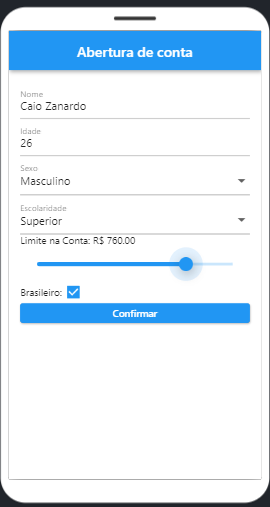
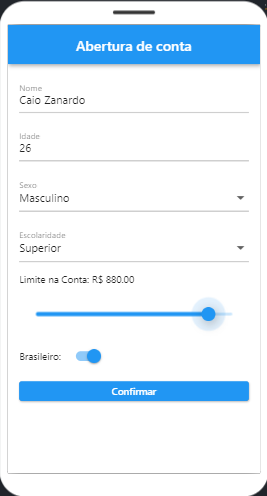
Ajustando Swith

Changed region(s): [[0.0, 0.0, 1.0, 1.0]]

diff --git a/main.dart b/main.dart
@@ -8,7 +8,7 @@ class MyApp extends StatelessWidget {
   @override
   Widget build(BuildContext context) {
     return MaterialApp(
-      debugShowCheckedModeBanner: false, // Desabilita o banner de depuração
+      debugShowCheckedModeBanner: false,
       title: 'Formulário de Dados',
       theme: ThemeData(
         primarySwatch: Colors.blue,
@@ -46,7 +46,7 @@ class _FormularioDadosState extends State<FormularioDados> {
               Text('Sexo: $sexoSelecionado'),
               Text('Escolaridade: $escolaridadeSelecionada'),
               Text('Limite na Conta: R\$ ${limiteConta.toStringAsFixed(2)}'),
-              Text('Brasileiro: ${brasileiro ? 'Sim' : 'Não'}'),
+              Text('Nacionalidade: ${brasileiro ? 'Brasileiro' : 'Estrangeiro'}'),
             ],
           ),
           actions: [
@@ -69,7 +69,7 @@ class _FormularioDadosState extends State<FormularioDados> {
         title: Text('Abertura de conta'),
         centerTitle: true,
       ),
-      backgroundColor: Colors.white, // Define a cor de fundo do Scaffold
+      backgroundColor: Colors.white,
       body: Padding(
         padding: const EdgeInsets.all(16.0),
         child: SingleChildScrollView(
@@ -80,11 +80,13 @@ class _FormularioDadosState extends State<FormularioDados> {
                 controller: nomeController,
                 decoration: InputDecoration(labelText: 'Nome'),
               ),
+              SizedBox(height: 16.0), 
               TextField(
                 controller: idadeController,
                 keyboardType: TextInputType.number,
                 decoration: InputDecoration(labelText: 'Idade'),
               ),
+              SizedBox(height: 16.0), 
               DropdownButtonFormField<String>(
                 value: sexoSelecionado,
                 onChanged: (value) {
@@ -101,6 +103,7 @@ class _FormularioDadosState extends State<FormularioDados> {
                 }).toList(),
                 decoration: InputDecoration(labelText: 'Sexo'),
               ),
+              SizedBox(height: 16.0), 
               DropdownButtonFormField<String>(
                 value: escolaridadeSelecionada,
                 onChanged: (value) {
@@ -117,7 +120,9 @@ class _FormularioDadosState extends State<FormularioDados> {
                 }).toList(),
                 decoration: InputDecoration(labelText: 'Escolaridade'),
               ),
+              SizedBox(height: 16.0), 
               Text('Limite na Conta: R\$ ${limiteConta.toStringAsFixed(2)}'),
+              SizedBox(height: 16.0), 
               Slider(
                 value: limiteConta,
                 onChanged: (value) {
@@ -129,19 +134,22 @@ class _FormularioDadosState extends State<FormularioDados> {
                 max: 1000,
                 divisions: 50,
               ),
+              SizedBox(height: 16.0), 
               Row(
                 children: [
                   Text('Brasileiro:'),
-                  Checkbox(
+                  SizedBox(width: 8.0), 
+                  Switch(
                     value: brasileiro,
                     onChanged: (value) {
                       setState(() {
-                        brasileiro = value ?? false;
+                        brasileiro = value;
                       });
                     },
                   ),
                 ],
               ),
+              SizedBox(height: 16.0), 
               ElevatedButton(
                 onPressed: _exibirDados,
                 child: Text('Confirmar'),
